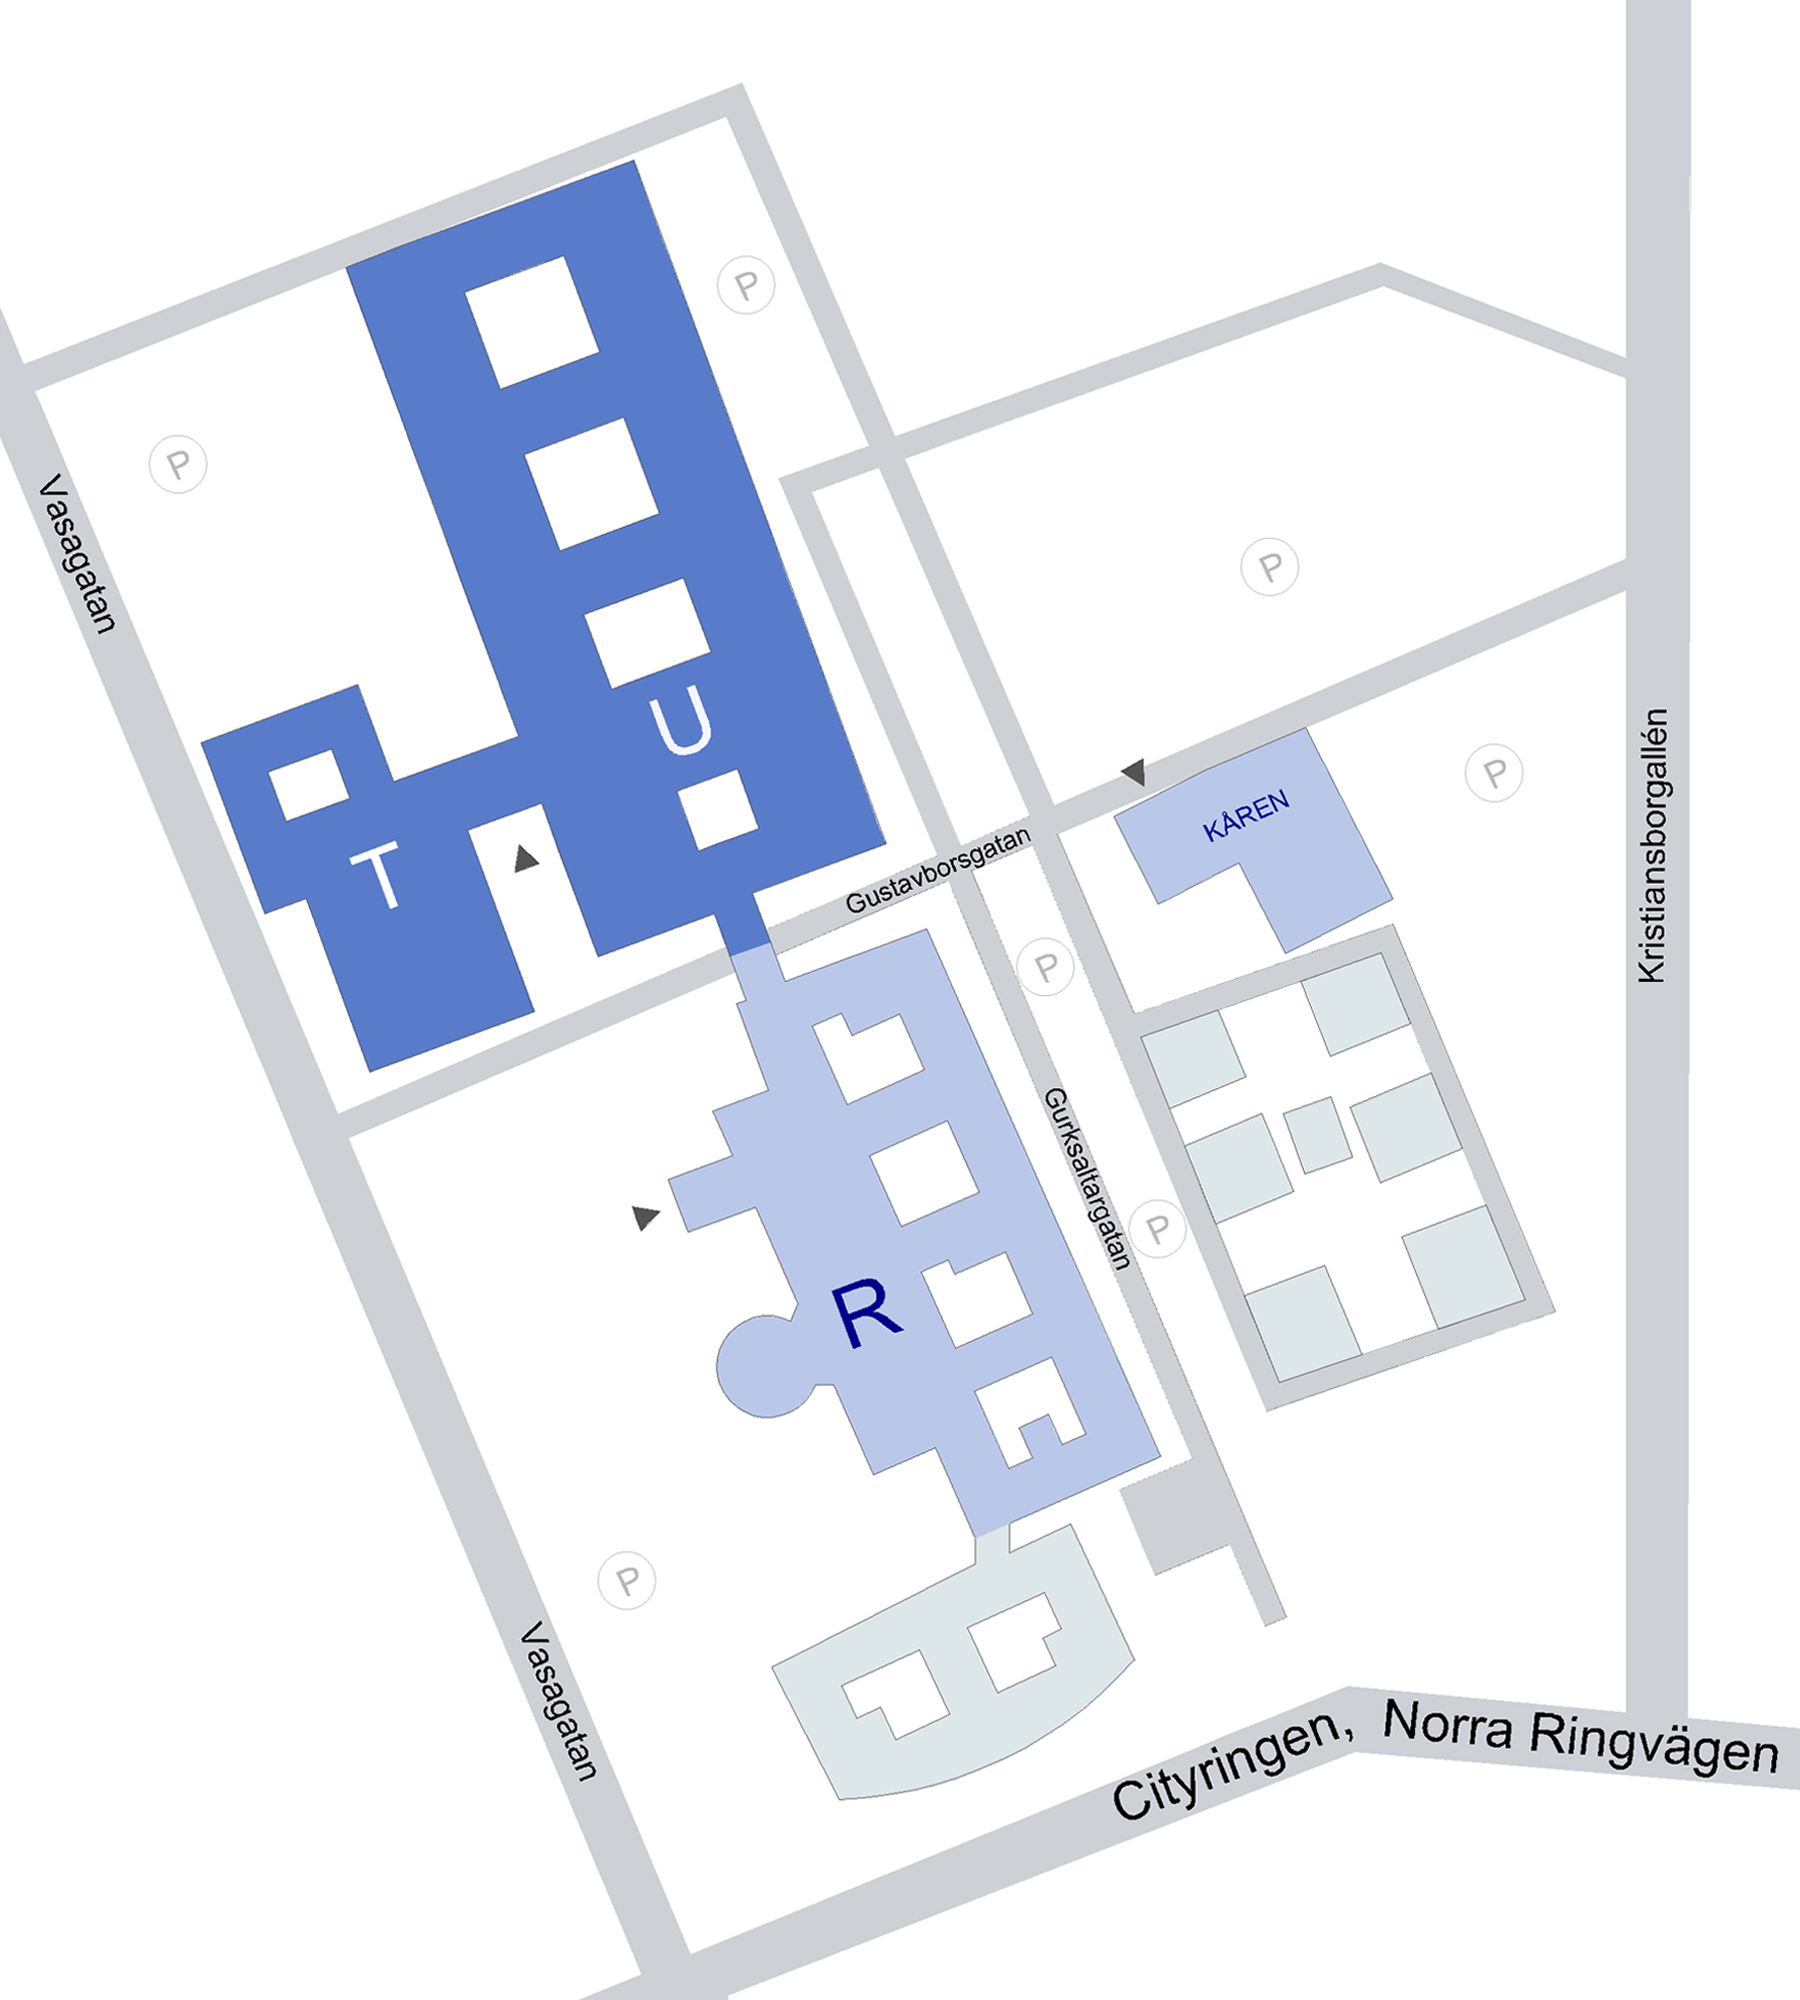
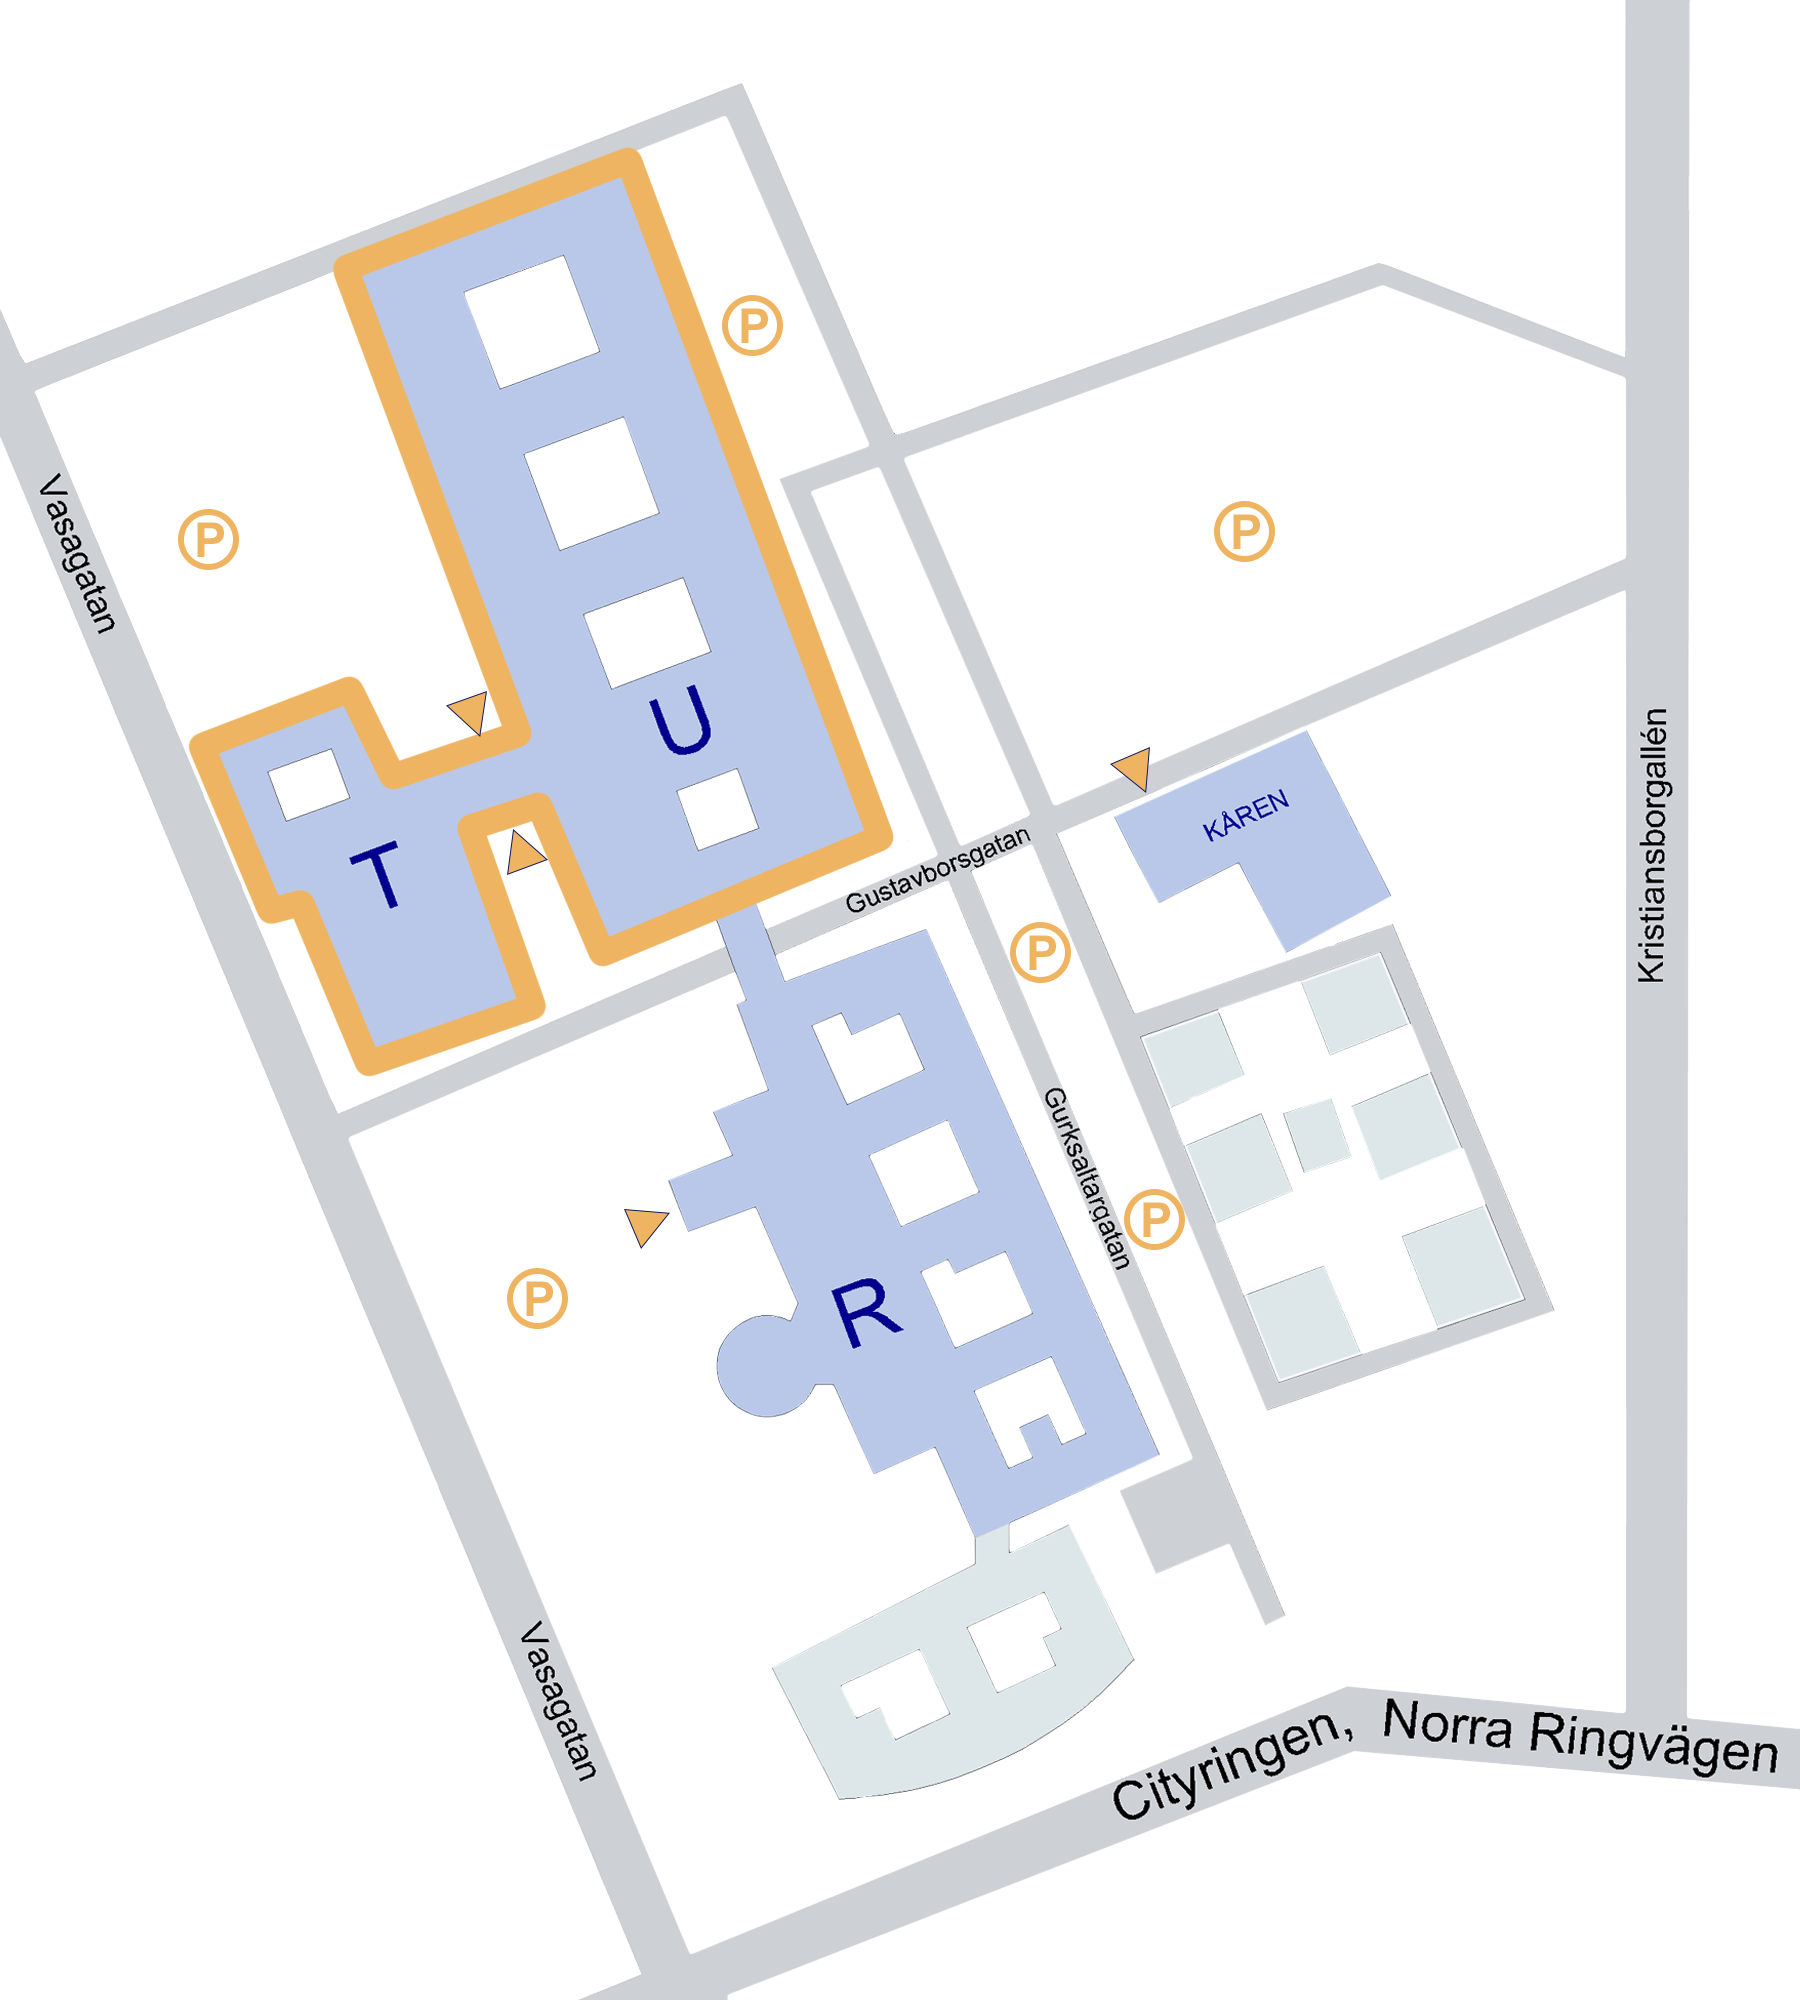
Image update and a beginning on notifications, not connected

diff --git a/lib/notice_page.dart b/lib/notice_page.dart
@@ -1,0 +1,113 @@
+import 'package:badges/badges.dart';
+import 'package:flutter/material.dart';
+import 'package:flutter/widgets.dart';
+
+class Note{
+  final String title;
+  final String content;
+
+  Note({this.title, this.content});
+}
+
+class NotificationPage extends StatefulWidget {
+  @override
+  _NotificationPage createState() => _NotificationPage();
+}
+
+class _NotificationPage extends State<NotificationPage>{
+
+  static List<Note> noteList = [
+    Note(
+        title: 'MAA140',
+        content: 'Anmälan till tentan öppen'
+    ),
+    Note(
+        title: 'MAA140',
+        content: 'Föreläsning 15 inställd'
+    ),
+  ];
+
+
+  Widget build(BuildContext context) {
+    print('notiser');
+    return Stack(
+      children: [
+        Opacity(
+          opacity: 0.8,
+          child: Container(
+            decoration: BoxDecoration(
+              color: const Color(0xff2c1d33),
+            ),
+            width: MediaQuery.of(context).size.width,
+            height: MediaQuery.of(context).size.height * 0.6,
+          ),
+        ),
+        Center(
+          child: ListView.builder(
+            itemCount: noteList.length,
+            itemBuilder: (BuildContext context, int index){
+             return Card(
+                color: const Color(0xffeeb462),
+                child: Column(
+                  mainAxisSize: MainAxisSize.min,
+                  children: [
+                    ListTile(
+
+                      title: Text(noteList[index].title),
+                      subtitle: Text(noteList[index].content),
+                      trailing: IconButton(
+                          onPressed: (){
+                          /*  noteList.removeAt(index);
+                            setState(() {});
+                            print(noteList.length.toString());*/
+                          },
+                          icon: Icon(Icons.check)),
+                    )
+                  ],
+                ),
+              );
+             },
+          ),
+        ),
+      ],
+    );
+  }
+}
+
+
+Widget NotificationIcon (int number, bool visible){
+  if(number == 0){
+    return  Badge(
+      badgeColor: Colors.grey[400],
+      badgeContent: Text(number.toString()),
+      position: BadgePosition.bottomEnd(end: 6, bottom: 6),
+      child: IconButton(
+        onPressed: () { },
+        icon: Icon(
+          Icons.notifications_none_rounded,
+          color:  const Color(0xffdfb15b),
+        ),
+      ),
+    );
+  }
+ /* else {
+    Badge(
+      badgeColor: Colors.red[400],
+      badgeContent: Text(notifications.toString()),
+      position: BadgePosition.bottomEnd(end: 6, bottom: 6),
+      child: IconButton(
+        onPressed: () {
+          print('onpressed');
+          if (!visible)
+            showNotification();
+          else
+            hideNotification();
+        },
+        icon: Icon(
+          Icons.notifications_none_rounded,
+          color:  const Color(0xffdfb15b),
+        ),
+      ),
+    ),
+  }*/
+}

diff --git a/lib/map/presentation/widgets/basic_map_widget.dart b/lib/map/presentation/widgets/basic_map_widget.dart
@@ -22,7 +22,7 @@ class _BasicMapWidget extends State<BasicMapWidget> {
     super.initState();
     print('loading images');
     basic = Image.asset('assets/basic.png');
-    u_building = Image.asset('assets/u1test.png');
+    u_building = Image.asset('assets/U.png');
     r_building = Image.asset('assets/R.png');
     u1 = Image.asset('assets/U1.png');
     u2 = Image.asset('assets/U2.png');
@@ -86,7 +86,7 @@ String image;
     case 'basic':
       return 'assets/basic.png';
     case 'U':
-      return 'assets/u1test.png';
+      return 'assets/U.png';
 
     case 'U1':
       return 'assets/U1.png';
